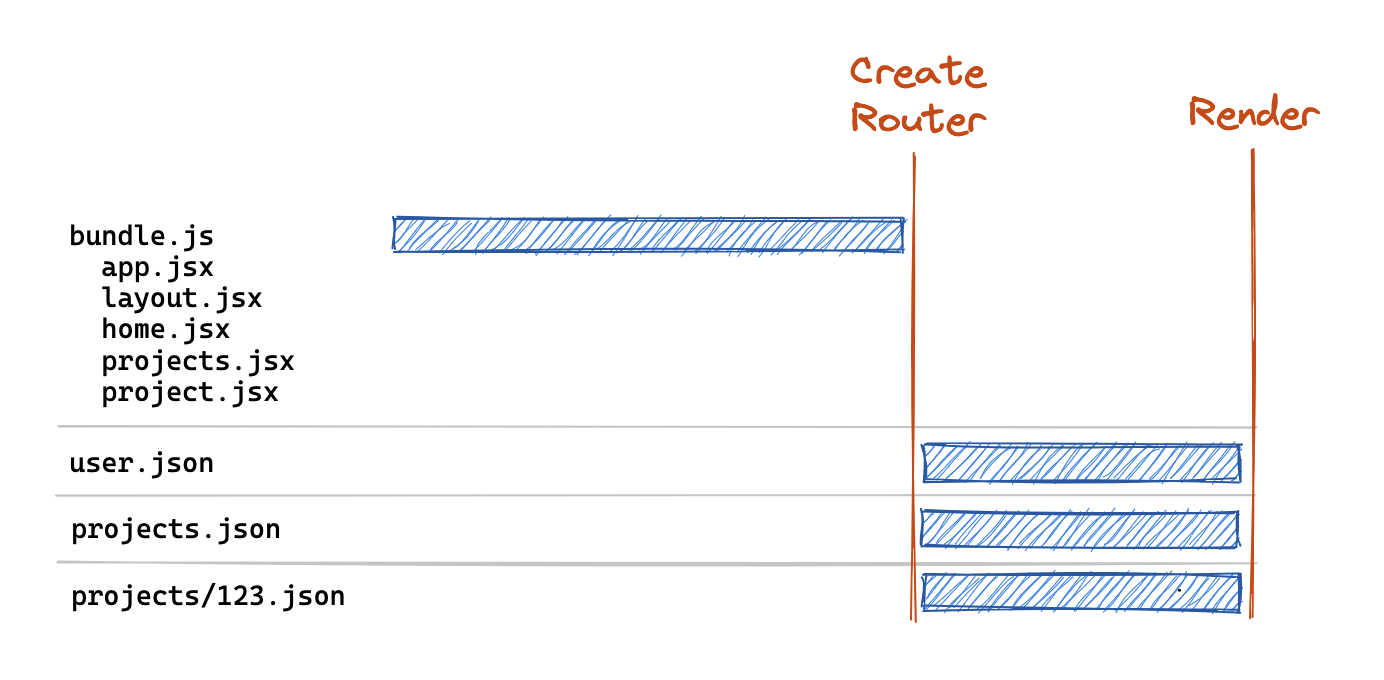
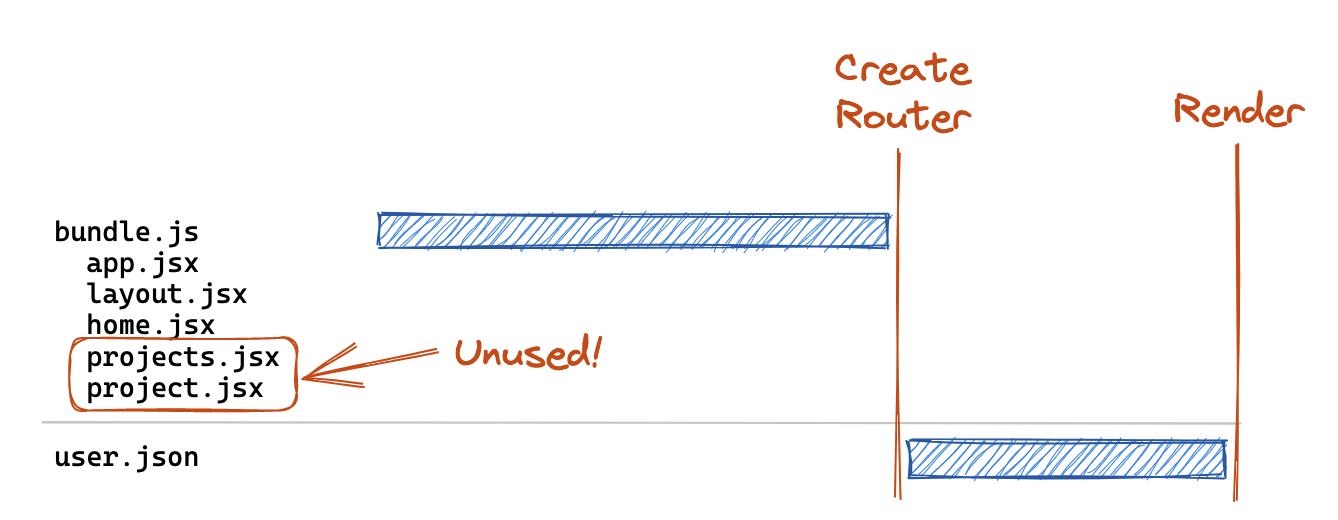
Updated

Changed region(s): [[0.0306, 0.0923, 0.9806, 0.9538], [0.0306, 0.8615, 0.2451, 0.9231]]

diff --git a/data/posts/lazy-loading-routes.md b/data/posts/lazy-loading-routes.md
@@ -3,18 +3,18 @@ title: Lazy Loading Routes in React Router
 summary: Decoupling data-fetching from rendering introduces some complexities if you want to lazily load your route components.  Check out how the newly introduced `route.lazy()` method helps solve this to keep your app bundles small and your UX snappy!
 featured: true
 date: 2023-02-27
-image: /blog-images/posts/lazy-loading-routes/waterfall.jpg
+image: /blog-images/headers/waterfall.jpg
 imageAlt: A waterfall down a series of rocks shaped like a stairway
 authors:
   - Matt Brophy
 ---
 
 
-[React Router 6.4][react-router-6.4] introduced the concept of a _"Data Router"_ with the primary focus being to separate data fetching from rendering to eliminate **render + fetch chains** and the spinners that come along with them.
+[React Router 6.4][react-router-6.4] introduced the concept of a _"Data Router"_ with the primary focus of separating data fetching from rendering to eliminate **render + fetch chains** and the spinners that come along with them.
 
-These chains are more commonly referred to as "waterfalls", but we're trying to re-think that term because most folks hear waterfall and picture [Niagra Falls][niagra], where all of the water falls down in one big nice waterfall.  But "all at once" seems like a great way to load data, so why the hate on "waterfalls"?  Maybe we should chase 'em after all?
+These chains are more commonly referred to as "waterfalls", but we're trying to re-think that term because most folks hear waterfall and picture [Niagra Falls][niagra], where all of the water falls down in one big nice waterfall.  But "all at once" seems like a great way to load data, so why the hate on waterfalls?  Maybe we should chase 'em after all?
 
-In reality, the "waterfalls" we want to avoid look more like the header image above and resemble a staircase.  The water falls a little bit, then stops, then falls a bit more, then stops, and so on and so on.  Now imagine each "fall" in that staircase is a loading spinner.  That's not the type of UI we want to give our users!  So in this article (and hopefully beyond), we're using the term "chain" to indicate fetches that are inherently sequentially ordered, and each fetch is blocked by the fetch before it.
+In reality, the "waterfalls" we want to avoid look more like the header image above and resemble a staircase.  The water falls a little bit, then stops, then falls a bit more, then stops, and so on and so on.  Now imagine each step in that staircase is a loading spinner.  That's not the type of UI we want to give our users!  So in this article (and hopefully beyond), we're using the term "chain" to indicate fetches that are inherently sequentially ordered, and each fetch is blocked by the fetch before it.
 
 
 ## Render + Fetch Chains
@@ -64,15 +64,15 @@ const routes = [{
 
 But this comes with a downside.  So far we've talked about how to optimize our data fetches, but we've also got to consider how to optimize our JS bundle fetches too!  With this naive route definition above, while we can fetch all of our data in parallel, we've blocked the start of the data fetch by the download of a Javascript bundle containing _all_ of our loaders and _all_ our our components.
 
-**TODO: Should probably remove projects fetches from this diagram if we're assuming users enter on the homepage below**
+Consider a user entering your site on the `/` route:
 
-<img alt="network diagram showing an application JS bundle blocking parallel network requests" src="/blog-images/posts/lazy-loading-routes/network3.png" class="border rounded-md p-3 shadow" />
+<img alt="network diagram showing an application JS bundle blocking data fetches" src="/blog-images/posts/lazy-loading-routes/network3.png" class="border rounded-md p-3 shadow" />
 
-<figcaption class="my-2">The singular JS bundle blocks the parallel data fetches</figcaption>
+<figcaption class="my-2">The singular JS bundle blocks the data fetch</figcaption>
 
-A user loading the homepage at `/` will still be downloading the loaders and components for the `projects` and `:projectId` routes, even though they don't need them!  And in the worst case, the user will _never_ need them if they don't navigate to those routes.  This can't be ideal for our UX.
+This user still has to download the loaders and components for the `projects` and `:projectId` routes, even though they don't need them!  And in the worst case, the user will _never_ need them if they don't navigate to those routes.  This can't be ideal for our UX.
 
-## `React.lazy` to the Rescue?
+## React.lazy to the Rescue?
 
 [React.lazy][react-lazy] offers a first-class primitive to chunk off portions of your component tree, but it suffers from the same tight-coupling of fetching and rendering that we are trying to eliminate with data routers 😕.  This is because when you use `React.lazy()`, you create an async chunk for your component, but React won't actually _start_ fetching that chunk until it renders the lazy component.
 
@@ -95,7 +95,7 @@ function App() {
 
 So while we can leverage `React.lazy()` with data routers, we end up introducing a waterfall to download the component _after_ our data fetches.  Ruben Casas [wrote up a great post][react-router-6.4-code-splitting] on some of the approaches to leverage code-splitting in data routers with `React.lazy()`.
 
-## Introducing `Route.lazy`
+## Introducing Route.lazy
 
 If we want lazy-loading to play nicely with data routers, we need to be able to introduce laziness _outside_ of the render cycle.  Just like we lifted data fetching out from the render cycle, we want to lift _route fetching_ out of the render cycle as well.
 
@@ -105,9 +105,9 @@ If you step back and look at a route definition, it can be split into 3 sections
 * Data loading/submitting fields such `loader` and `action`
 * Rendering fields such as `element` and `errorElement`
 
-The only thing a data router truly needs on the critical path is the path matching fields, as it needs to be able to identify all of the routes matched for a given URL.  After matching, we already have an asynchronous navigation in progress so there's no reason we couldn't also be fetching route information during that navigation.  And then we don't need the rendering aspects until we're done with data-fetching since we don't render the destination route until then.  Yes, this will introduce the concept of a "chain" but it's an opt-in choice to handle the trade-off between initial load speed and subsequent navigation speeds.
+The only thing a data router truly needs on the critical path is the path matching fields, as it needs to be able to identify all of the routes matched for a given URL.  After matching, we already have an asynchronous navigation in progress so there's no reason we couldn't also be fetching route information during that navigation.  And then we don't need the rendering aspects until we're done with data-fetching since we don't render the destination route until data fetches have completed.  Yes, this can introduce the concept of a "chain" (load route, then load data) but it's an opt-in lever you can pull as needed to address the trade-off between initial load speed and subsequent navigation speeds.
 
-Here's what this look like using our route structure from above:
+Here's what this looks like using our route structure from above, and using the new `lazy()` method on a route definition:
 
 ```jsx
 // app.jsx
@@ -135,9 +135,14 @@ const routes = [{
 export function loader = () => { ... }; // formerly named getProjects
 
 export function Component() { ... } // formerly named Projects
+
+// project.jsx
+export function loader = () => { ... }; // formerly named getProject
+
+export function Component() { ... } // formerly named Project
 ```
 
-_What's `export function Component` you ask?  The properties exported from this lazy module are added to the route definition verbatim.  Because it's odd to export an `element`, we've added support for defining `Component` on a route object instead of `element`._
+_What's `export function Component` you ask?  The properties exported from this lazy module are added to the route definition verbatim.  Because it's odd to export an `element`, we've added support for defining `Component` on a route object instead of `element` (but don't worry `element` still works!)._
 
 In this case we've opted to leave the layout and home routes in the primary bundle as that's the most common entry-point for our users.  But we've moved the imports of our `projects` and `:projectId` routes into their own lazy imports.  React Router will call these `lazy()` functions in parallel when routing to `/projects/123`, followed by their loaders.
 
@@ -147,41 +152,39 @@ The resulting network graph would look something like this on initial load:
 
 <figcaption class="my-2">The lazy() method allows us to trim down our critical path bundle</figcaption>
 
-And then when a user clicks a link to `/projects/123`, we fetch those routes in parallel via the `lazy()` method:
+Now our critical path bundle includes _only_ those routes we've deemed critical for initial entry to our site.  Then when a user clicks a link to `/projects/123`, we fetch those routes in parallel via the `lazy()` method:
 
 <img alt="network diagram showing a link click using route.lazy()" src="/blog-images/posts/lazy-loading-routes/network6.png" class="border rounded-md p-3 shadow" />
 
 <figcaption class="my-2">We lazy load routes in parallel on navigations</figcaption>
 
-This gives us a bit of the best of both worlds in that we're able tp trim our critical-poath bundle to the relevant homepage routes.  And then on navigations, we can match paths and fetch the lazy() route definitions in parallel.
+This gives us a bit of the best of both worlds in that we're able to trim our critical-path bundle to the relevant homepage routes.  And then on navigations, we can match paths and fetch the new route definitions we need.
 
 ## Advanced Usage and Optimizations
 
 Some of the astute readers may feel a bit of a 🕷 spidey-sense tingling for some hidden chaining going on in here.  Is this the _optimal_ network graph?  As it turns out, it's not!  But it's pretty good for the lack of code we had to write to get it 😉.
 
-Remember that our route modules now include our `loader` as well as our `Component`, which means that we need to download the contents of both of those before we can start our loader fetch.  In practice, your loaders are generally pretty small and hitting external APIs where the majority of your business logic lives.  Components on the other hand define your entire user interface, including all of the user-interactivity that goes along with it - and they can get quite big.  It seems silly to block the loader fetch by a large component?
-
-But for React Router users, what if we could turn this:
+In this example above, our route modules include our `loader` as well as our `Component`, which means that we need to download the contents of _both_ before we can start our `loader` fetch.  In practice, your React Router SPA loaders are generally pretty small and hitting external APIs where the majority of your business logic lives.  Components on the other hand define your entire user interface, including all of the user-interactivity that goes along with it - and they can get quite big.  It seems silly to block the loader fetch by the JS download for a large Component tree?
 
 <img alt="network diagram showing a loader + component chunk blocking a data fetch" src="/blog-images/posts/lazy-loading-routes/network7.png" class="border rounded-md p-3 shadow" />
 
 <figcaption class="my-2">Singular route files block the data fetch behind the component download</figcaption>
 
-Into this:
+But what if we could turn that into this:
 
 <img alt="network diagram showing separate loader and component files unblocking the data fetch" src="/blog-images/posts/lazy-loading-routes/network8.png" class="border rounded-md p-3 shadow" />
 
-<figcaption class="my-2">We can unblock the data fetch by extracting the component</figcaption>
+<figcaption class="my-2">We can unblock the data fetch by extracting the component to it's own file</figcaption>
 
-Because `lazy()` is statically defined and runs immediately, you can get fancy inside and load chunks in whatever way you see fit.  And because your route `Component`/`element` will never attempt to render until the loader has completed, you can even "provide" the `Component` from your `loader` and get that parallelization of the component chunk and the data fetch.  Here's an example of a utility to will get you the optimized network graph above:
+Because `lazy()` is statically defined and runs immediately, you can get fancy inside and load chunks in whatever way you see fit.  And because your route `Component`/`element` will never attempt to render until the loader has completed, you can even "provide" the `Component` from your `loader` and parallelize the data fetch alongside the component chunk.  Here's an example of a utility that would get you the optimized network graph above:
 
 ```jsx
 const routes = [{
   path: "projects",
   lazy() {
     return parallelize(
-      () => import("./loader"),
-      () => import("./component")
+      () => import("./projects-loader"),
+      () => import("./projects-component")
     );
   },
 }];
@@ -215,17 +218,12 @@ It's also worth noting that while you can lazily load any non-path-matching prop
 const routes = [{
   id: 'route',
   path: "parallel",
-  loader: ({ request }) => {
-    let url = new URL(request.url);
-    url.searchParams.set("routeId", "route");
-    return fetch(url);
-  },
-  lazy: () => import("./route"),
+  loader: ({ request }) => fetchDataForUrl(request.url),
+  lazy: () => import("./route-module-without-loader"),
 }];
 ```
 
-This way you can include the _tiny_ loader on the critical path so it cn start as fast as possible, and still load the `Component` via `lazy()`.  As a matter of fact, this is almost exactly how Remix approaches this issue because route loader sare their own API endpoint.
-
+This way you can include the _tiny_ loader on the critical path so it can start as fast as possible, and still load the `Component` via `lazy()`.  As a matter of fact, this is almost exactly how Remix approaches this issue because route loaders are their own API endpoints 🔥.
 
 ## More Information
 
